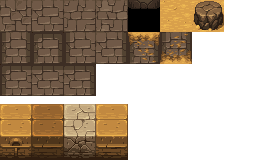
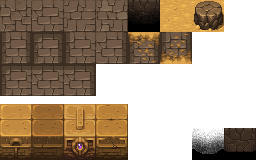
added changed image resources for floor tiles and walls randomized floor tiles removed deprecated title image

diff --git a/src/com/mojang/mojam/level/tile/FloorTile.java b/src/com/mojang/mojam/level/tile/FloorTile.java
@@ -1,6 +1,7 @@
 package com.mojang.mojam.level.tile;
 
 import com.mojang.mojam.level.Level;
+import com.mojang.mojam.network.TurnSynchronizer;
 import com.mojang.mojam.screen.Art;
 import com.mojang.mojam.screen.Screen;
 
@@ -58,6 +59,8 @@ public class FloorTile extends Tile {
 			else
 				// Row 2, first 4 columns
 				img = 2 * Art.floorTiles.length + (imageIndex & 3);
+		} else {
+		    img = TurnSynchronizer.synchedRandom.nextInt(4); 
 		}
 		minimapColor = Art.floorTileColors[img & 7][img / 8];
 	}

diff --git a/src/com/mojang/mojam/screen/Art.java b/src/com/mojang/mojam/screen/Art.java
@@ -20,7 +20,6 @@ public class Art {
 	public static Bitmap[][] lordLard = cut("/lord_lard_sheet.png", 32, 32);
 	public static Bitmap[][] herrSpeck = cut("/herr_von_speck_sheet.png", 32,
 			32);
-	public static Bitmap[] titles = cut("/titles.png", 128);
 	public static Bitmap[][] button = cut("/button.png", 128, 24);
 	public static Bitmap[][] font = cut("/gamfont.png", 8, 8);
 	public static Bitmap[][] mapIcons = cut("/mapicons.png", 5, 5);

diff --git a/src/com/mojang/mojam/level/tile/WallTile.java b/src/com/mojang/mojam/level/tile/WallTile.java
@@ -29,7 +29,7 @@ public class WallTile extends Tile {
 	}
 
 	public void render(Screen screen) {
-		screen.blit(Art.wallTiles[img % 3][0], x * Tile.WIDTH, y * Tile.HEIGHT
+		screen.blit(Art.wallTiles[img % 4][0], x * Tile.WIDTH, y * Tile.HEIGHT
 				- (WALLHEIGHT - Tile.HEIGHT));
 	}
 
